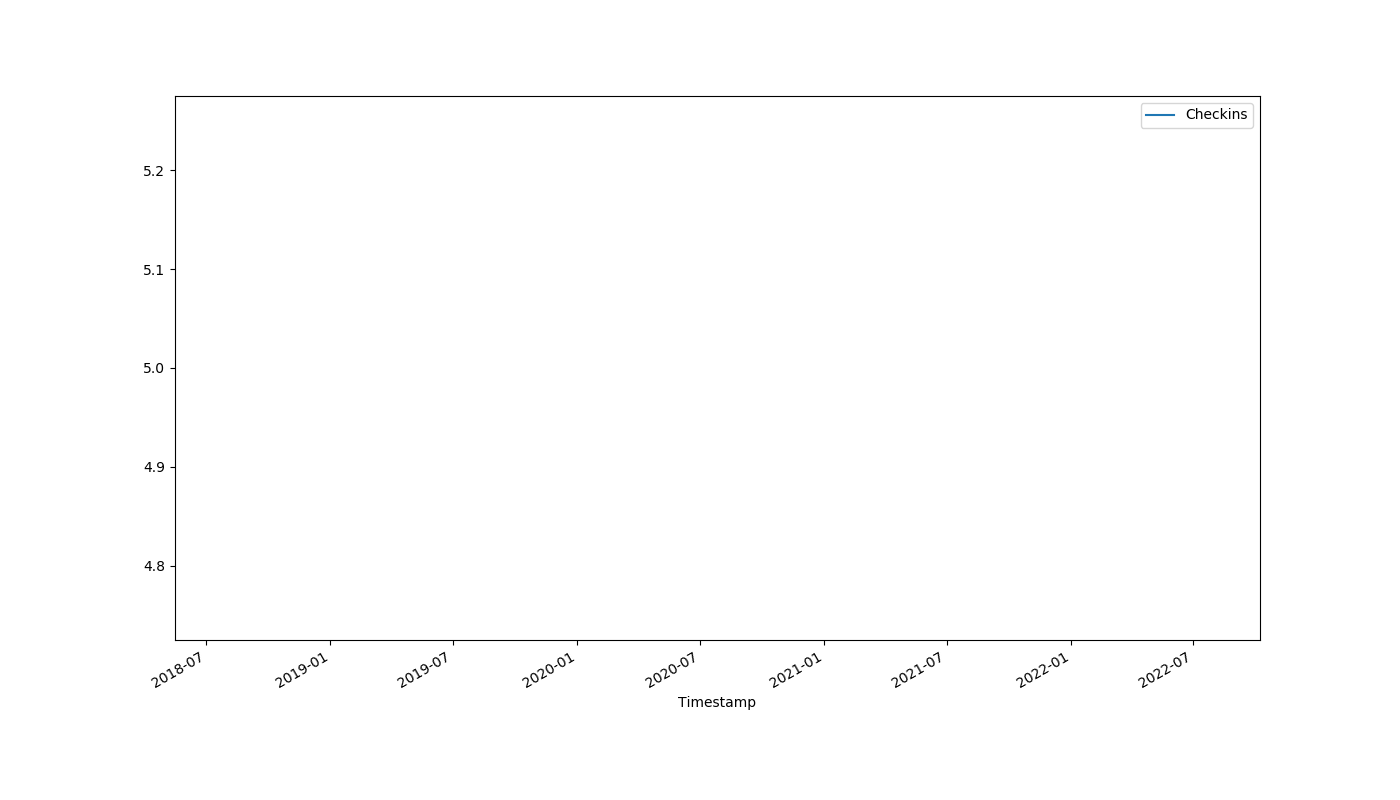
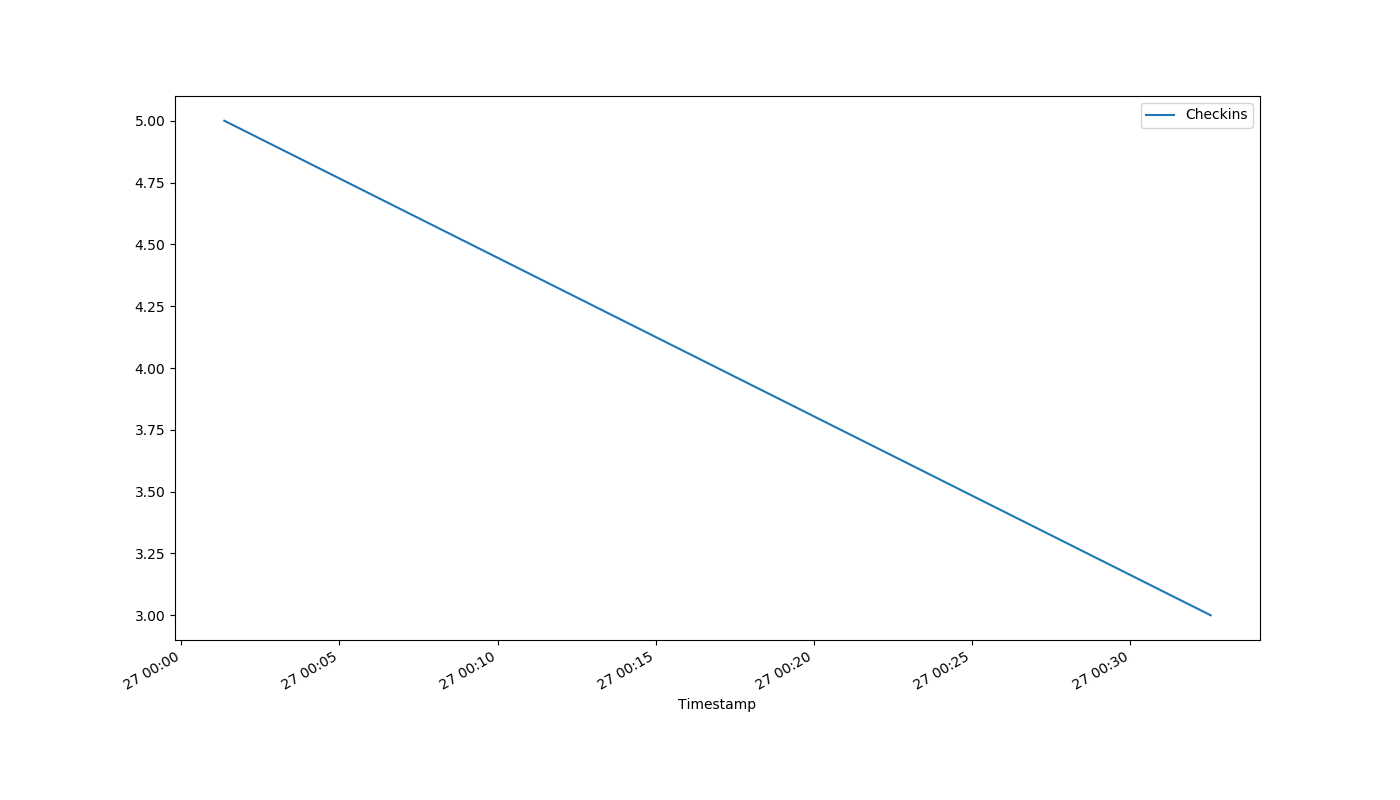
auto-Jul-27-00:34:05

diff --git a/index.html b/index.html
@@ -1,1 +1,1 @@
-<!DOCTYPE html><html><head><meta http-equiv="refresh" content="30"><link rel='stylesheet' href='holmcurrent.css'></head><body><p id='count'>5</p><div id='graph-wrap'><img id='graph' src='holmgraph-Jul-27.png'></div><p id='updated'>Last updated 00:02:05 / 00:01:21</p></body></html>
+<!DOCTYPE html><html><head><meta http-equiv="refresh" content="30"><link rel='stylesheet' href='holmcurrent.css'></head><body><p id='count'>3</p><div id='graph-wrap'><img id='graph' src='holmgraph-Jul-27.png'></div><p id='updated'>Last updated 00:33:05 / 00:32:32</p></body></html>
